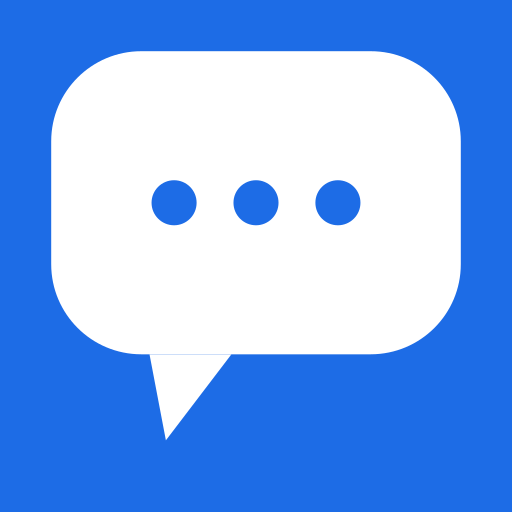
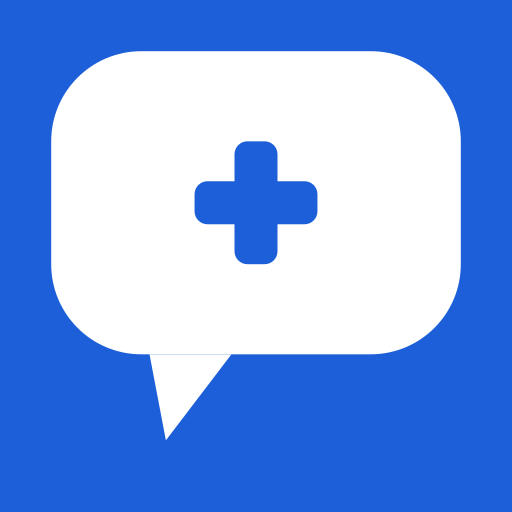
refactor(legal): 의무가 둘이라 푸터를 갈랐다 — 방침 링크는 홈, 사업자 정보는 /more
- 약관·방침 한 줄: **홈에만** 남긴다. 개인정보보호법 제30조 2항의 "쉽게 확인할 수
  있도록"은 첫 화면 링크를 뜻한다. 메뉴 안으로만 옮기면 두 번 들어가게 된다.
  12.5px → 14px (원칙 2 하한. 읽히지 않으면 "쉽게 확인"의 취지가 안 산다)
- 사업자 정보 4줄: /more 로. 전자상거래법의 초기화면 표시 의무는 파는 곳에
  걸리고 우리는 팔지 않는다. 둘을 묶어 함께 옮겼으면 한쪽이 깨졌다
- /chat 등 다른 화면에서는 그 줄도 뺐다. 머리띠의 "더보기"가 길을 준다
- 머리띠에 더보기 → /more. **서랍을 만들지 않는다** — 오버레이·포커스 트랩·스크롤
  잠금은 한 번 읽는 내용에 큰 장치다. /more 를 열면 약관·방침이 맨 위 두 줄이라
  "메뉴를 열면 한 번에 보인다"가 지켜진다. /more 자신에는 자기 링크를 안 둔다
  하단 메뉴를 지운 결정과 어긋나지 않는다: 그때 지운 것은 404 로 가는 문 네 개와
  화면 아래 60px 이었고, 이것은 머리띠 안 44px 하나다(간격은 8px 유지)
- 아이콘을 결정대로 바꿨다: 말풍선 + 십자, #1C5FD8. ER·응급 표기 없음(응급의료
  기관이 아니고 119 대신 눌리면 안 된다), 빨간 십자 없음(적십자 표장은 법으로
  보호된다). 근거는 docs/LAUNCH-scope.md

띄워서 세 화면을 읽었다. 323 + 131 통과.

Changed region(s): [[0.2812, 0.25, 0.7188, 0.5312]]

diff --git a/src/components/legal/LegalFooter.tsx b/src/components/legal/LegalFooter.tsx
@@ -1,22 +1,25 @@
 import Link from "next/link";
-import { COMPANY } from "@/features/legal/company";
 import { LEGAL_DOC_PATH } from "@/features/legal/documents";
 import { areLegalDocsReadable, isPolicyInForce } from "@/features/legal/version";
 
 /**
- * 보호자 화면 맨 아래.
+ * 약관·방침 링크 한 줄. **홈에만 붙인다.**
  *
- * 두 묶음이고 켜지는 조건이 다르다.
+ * ── 왜 홈에는 남기는가 ──────────────────────────────────────
+ * 개인정보보호법 제30조 2항은 처리방침을 "정보주체가 **쉽게 확인할 수 있도록**"
+ * 공개하라고 한다. 실무 기준은 **첫 화면에 링크가 보이는 것**이다. 더보기 메뉴
+ * 안으로만 옮기면 메뉴를 열고 또 들어가게 되어 그 기준에서 벗어난다.
  *
- *   ① 사업자 정보 — **항상 보인다.** 표기 의무는 약관이 있는지와 무관하다.
- *      값은 features/legal/company 한 곳에서 읽는다. 문서 본문도 같은 값을 토큰으로
- *      읽으므로 주소나 보호책임자가 바뀌면 한 곳만 고치면 된다.
+ * 그래서 홈에는 남기고, 다른 화면에서는 뺐다 — 머리띠의 "더보기"가 길을 준다.
  *
- *   ② 약관·방침 **링크** — 본문이 들어오면 보인다. 시행 전에도 보여 준다(사전 고지).
+ * ── 왜 14px 인가 ────────────────────────────────────────────
+ * 12.5px 이었다. 원칙 2 의 하한 아래이고, 법이 "쉽게 확인"이라고 할 때 읽히지
+ * 않는 크기면 취지가 살지 않는다. 사업자 정보 4줄이 /more 로 빠져 자리가 생겼다.
  *
- *   ③ **동의 문구** — 시행일이 지난 뒤에만. 시행 전에 "동의하는 것으로 봅니다"를
- *      적으면 아직 효력이 없는 문서에 동의시킨 셈이 된다. 그 기간에는 쓰기도
- *      닫혀 있다(lib/demoContent.areWritesOpen).
+ * ── 세 가지 상태 ────────────────────────────────────────────
+ *   · 본문이 없으면 아무것도 그리지 않는다. 빈 링크를 만들지 않는다.
+ *   · 시행 전이면 "미리 읽을 수 있습니다 · 아직 효력이 없습니다".
+ *   · 시행 뒤에만 "동의하는 것으로 봅니다" — 효력 없는 문서에 동의시키지 않는다.
  *
  * 서버 컴포넌트다. 파일을 읽으므로 클라이언트에서 부르지 않는다.
  */
@@ -24,10 +27,11 @@ export function LegalFooter() {
   const ready = areLegalDocsReadable();
   const inForce = isPolicyInForce();
 
+  if (!ready) return null;
+
   return (
     <footer className="px-5 pb-5 pt-2">
-      {ready && (
-        <p className="text-[12.5px] leading-relaxed text-ink-faint">
+      <p className="text-[14px] leading-relaxed text-ink-faint">
           {inForce ? "글을 남기면 " : "시행 전입니다. "}
           <Link href={LEGAL_DOC_PATH.terms} className="font-semibold text-ink-muted underline">
             이용약관
@@ -39,29 +43,7 @@ export function LegalFooter() {
           {inForce
             ? "에 동의하는 것으로 봅니다. 로그인 없이 이용하며 이름·연락처는 저장하지 않습니다."
             : " 을 미리 읽을 수 있습니다. 아직 효력이 없습니다."}
-        </p>
-      )}
-
-      {/*
-        사업자 정보. 줄을 나눠 적는다 — 한 줄로 이으면 좁은 화면에서 끊어 읽기 어렵다.
-        전화번호를 적지 않는다. 운영 문의는 이메일로 받는다(응급은 119 다).
-
-        dl + sr-only 라벨로 짜다가 되돌렸다. 라벨을 숨긴 채 값 앞에 또 적으니
-        화면에는 한 번, 스크린리더에는 두 번 읽혔다. 띄워서 읽고 찾았다.
-      */}
-      <address className={`not-italic text-[12px] leading-relaxed text-ink-faint ${ready ? "mt-3" : ""}`}>
-        <span className="font-semibold text-ink-muted">{COMPANY.name}</span>
-        {` 대표 ${COMPANY.ceo}`}
-        <br />
-        {`사업자등록번호 ${COMPANY.registrationNumber}`}
-        <br />
-        {COMPANY.address}
-        <br />
-        {`개인정보 보호책임자 ${COMPANY.privacyOfficer} · `}
-        <a href={`mailto:${COMPANY.email}`} className="underline">
-          {COMPANY.email}
-        </a>
-      </address>
+      </p>
     </footer>
   );
 }

diff --git a/src/components/layout/AppHeader.tsx b/src/components/layout/AppHeader.tsx
@@ -3,7 +3,16 @@ import { EmergencyCallout } from "@/components/common/EmergencyCallout";
 import { PartnerCta } from "@/components/common/PartnerCta";
 import { showPartnerEntry } from "@/lib/demoContent";
 
-export function AppHeader({ title, backHref }: { title?: string; backHref?: string }) {
+export function AppHeader({
+  title,
+  backHref,
+  /** 더보기 진입점을 그릴 것인가. /more 자신에게는 자기 링크를 두지 않는다. */
+  showMore = true,
+}: {
+  title?: string;
+  backHref?: string;
+  showMore?: boolean;
+}) {
   return (
     <header className="sticky top-0 z-40 bg-canvas/85 backdrop-blur-md">
       <div className="mx-auto flex h-14 max-w-app items-center justify-between gap-3 px-4">
@@ -29,10 +38,28 @@ export function AppHeader({ title, backHref }: { title?: string; backHref?: stri
           )}
         </div>
         {/*
-          오른쪽 묶음: 참여 CTA → 119. 119 가 항상 가장 바깥(엄지에 가까운 쪽)이다.
-          1차에는 참여 병원이 없어 CTA 를 내린다 — 아무도 들어갈 수 없는 문이다.
+          오른쪽 묶음: 더보기 → 참여 CTA → 119. 119 가 항상 가장 바깥(엄지에 가까운
+          쪽)이다. 1차에는 참여 병원이 없어 CTA 를 내린다 — 아무도 들어갈 수 없는 문이다.
+
+          ── 더보기는 **서랍이 아니다** ───────────────────────
+          /more 로 보낸다. 서랍(오버레이·포커스 트랩·스크롤 잠금·ESC)은 한 번 읽는
+          내용에 붙이기에는 큰 장치다(원칙 10). 화면이 이미 있고 약관·방침이 그
+          화면 맨 위 두 줄이라, 열면 바로 보인다.
+
+          하단 고정 메뉴를 지운 결정과 어긋나지 않는다. 그때 지운 것은 **아무 데도
+          가지 않는 문 네 개**와 화면 아래 60px 이었다. 이것은 머리띠 안의 44px
+          하나이고 본문을 깎지 않는다.
         */}
         <div className="flex shrink-0 items-center gap-2">
+          {showMore && (
+          <Link
+            href="/more"
+            aria-label="더보기 — 약관·개인정보 처리방침·사업자 정보"
+            className="flex h-11 min-w-[44px] items-center justify-center rounded-full px-2 text-[14px] font-semibold text-ink-muted active:bg-fill"
+          >
+            더보기
+          </Link>
+          )}
           {showPartnerEntry && <PartnerCta />}
           <EmergencyCallout />
         </div>

diff --git a/src/components/legal/CompanyInfo.tsx b/src/components/legal/CompanyInfo.tsx
@@ -1,0 +1,47 @@
+import { COMPANY } from "@/features/legal/company";
+
+/**
+ * 사업자 정보. **더보기(/more) 안에만 둔다.**
+ *
+ * 전에는 모든 보호자 화면 맨 아래에 있었다. 네 줄짜리 주소·등록번호가 홈의 아래
+ * 절반을 차지했는데, 밤에 아이를 안고 들어온 사람에게 그 네 줄은 읽을 것이 아니다
+ * (원칙 4·10).
+ *
+ * ── 첫 화면에서 빼도 되는가 ─────────────────────────────────
+ * 전자상거래법의 초기화면 표시 의무는 **재화·용역을 파는 곳**에 걸린다. CareTime 은
+ * 팔지 않는다. 그래서 사업자 정보는 찾을 수 있는 곳에 있으면 된다.
+ *
+ * 반대로 **개인정보 처리방침 링크는 첫 화면에 남긴다** — 개인정보보호법 제30조 2항의
+ * "쉽게 확인할 수 있도록"이 거기에 걸린다(components/legal/LegalFooter).
+ * 두 의무를 같은 것으로 묶어 함께 옮기면 한쪽이 깨진다.
+ *
+ * 값은 features/legal/company 한 곳에서 읽는다. 약관·방침 본문도 같은 값을 토큰
+ * (`{{상호}}` 등)으로 읽으므로 주소나 보호책임자가 바뀌면 한 곳만 고치면 된다.
+ */
+export function CompanyInfo() {
+  return (
+    <section className="ct-card p-5">
+      <h2 className="ct-section-title">사업자 정보</h2>
+      {/*
+        줄을 나눠 적는다 — 한 줄로 이으면 좁은 화면에서 끊어 읽기 어렵다.
+        전화번호를 적지 않는다. 운영 문의는 이메일로 받는다(응급은 119 다).
+
+        dl + sr-only 라벨로 짜다가 되돌렸다. 라벨을 숨긴 채 값 앞에 또 적으니
+        화면에는 한 번, 스크린리더에는 두 번 읽혔다. 띄워서 읽고 찾았다.
+      */}
+      <address className="mt-2 not-italic text-[14px] leading-relaxed text-ink-muted">
+        <span className="font-semibold text-ink">{COMPANY.name}</span>
+        {` 대표 ${COMPANY.ceo}`}
+        <br />
+        {`사업자등록번호 ${COMPANY.registrationNumber}`}
+        <br />
+        {COMPANY.address}
+        <br />
+        {`개인정보 보호책임자 ${COMPANY.privacyOfficer} · `}
+        <a href={`mailto:${COMPANY.email}`} className="underline">
+          {COMPANY.email}
+        </a>
+      </address>
+    </section>
+  );
+}

diff --git a/src/app/(consumer)/layout.tsx b/src/app/(consumer)/layout.tsx
@@ -1,4 +1,3 @@
-import { LegalFooter } from "@/components/legal/LegalFooter";
 import { SearchSessionProvider } from "@/features/search-session/SearchSessionProvider";
 import { DiscoveryProvider } from "@/features/discovery/DiscoveryProvider";
 
@@ -14,9 +13,15 @@ import { DiscoveryProvider } from "@/features/discovery/DiscoveryProvider";
  * 이동 경로는 화면 안에 있다: 홈의 주 버튼 → 현장톡, 현장톡 아래 '진료정보 찾기'
  * → 홈, 헤더의 뒤로 버튼, 푸터의 약관·방침 링크. /more 라우트는 남겨 둔다.
  *
- * 사업자 정보와 약관·방침 링크는 여기 한 곳에 둔다. 화면마다 붙이면 어느 화면에는
- * 없게 된다 — 글을 쓸 수 있는 화면이 셋이고 앞으로 늘어난다. 사업자 정보는 항상
- * 보이고, 약관·방침 링크는 문서가 준비된 뒤에 보인다(LegalFooter).
+ * ── 푸터를 여기서 뺐다 (2026-10-06) ────────────────────────
+ * 전에는 모든 보호자 화면 아래에 사업자 정보 4줄 + 약관·방침 줄이 붙었다. 둘을
+ * 갈랐다.
+ *   · 사업자 정보 → /more 로 옮겼다(components/legal/CompanyInfo). 전자상거래법의
+ *     초기화면 표시 의무는 파는 곳에 걸리고, 우리는 팔지 않는다.
+ *   · 약관·방침 한 줄 → **홈에만** 둔다(LegalFooter). 개인정보보호법 제30조 2항의
+ *     "쉽게 확인할 수 있도록"은 첫 화면 링크를 뜻한다. 메뉴 안으로만 옮기면 두 번
+ *     들어가게 된다.
+ * 다른 화면에서는 머리띠의 "더보기"가 길을 준다.
  */
 export default function ConsumerLayout({ children }: { children: React.ReactNode }) {
   return (
@@ -24,7 +29,6 @@ export default function ConsumerLayout({ children }: { children: React.ReactNode
       <DiscoveryProvider>
         <div className="mx-auto min-h-dvh max-w-app pb-[calc(16px+env(safe-area-inset-bottom))]">
           {children}
-          <LegalFooter />
         </div>
       </DiscoveryProvider>
     </SearchSessionProvider>

diff --git a/src/app/(consumer)/more/page.tsx b/src/app/(consumer)/more/page.tsx
@@ -1,6 +1,7 @@
 import Link from "next/link";
 import { AppHeader } from "@/components/layout/AppHeader";
 import { InstallHint } from "@/components/common/InstallHint";
+import { CompanyInfo } from "@/components/legal/CompanyInfo";
 import { LEGAL_DOC_PATH, loadLegalDocument } from "@/features/legal/documents";
 import { showPartnerEntry } from "@/lib/demoContent";
 
@@ -33,7 +34,7 @@ export default function MorePage() {
 
   return (
     <>
-      <AppHeader title="더보기" />
+      <AppHeader title="더보기" showMore={false} />
       <main className="space-y-3 px-4 pb-6 pt-3">
         <ul className="ct-card divide-y divide-fill overflow-hidden">
           {legal.map((item) =>
@@ -82,6 +83,9 @@ export default function MorePage() {
           </p>
         </section>
         )}
+
+        {/* 사업자 정보. 첫 화면에서 내려온 자리다(components/legal/CompanyInfo). */}
+        <CompanyInfo />
 
         <Link href="/" className="ct-secondary w-full">
           진료정보 찾기로 돌아가기

diff --git a/src/app/(consumer)/page.tsx b/src/app/(consumer)/page.tsx
@@ -4,6 +4,7 @@ import { StageNotice } from "@/components/common/StageNotice";
 import { DiscoveryForm } from "@/components/home/DiscoveryForm";
 import { MyRegionGate } from "@/components/home/MyRegionGate";
 import { InstallHint } from "@/components/common/InstallHint";
+import { LegalFooter } from "@/components/legal/LegalFooter";
 import { showCareConditionForm, showHospitalDirectory } from "@/lib/demoContent";
 
 /*
@@ -89,6 +90,13 @@ export default function HomePage() {
         )}
 
       </main>
+
+      {/*
+        약관·방침 한 줄. **홈에만 있다.** 개인정보보호법 제30조 2항의 "쉽게 확인할
+        수 있도록"이 첫 화면 링크를 뜻하기 때문이다. 사업자 정보 4줄은 /more 로
+        옮겼다 — 그쪽은 파는 곳에 걸리는 의무라 우리에게 해당하지 않는다.
+      */}
+      <LegalFooter />
     </>
   );
 }

diff --git a/docs/screens/install-abuse-2026-10-06.md b/docs/screens/install-abuse-2026-10-06.md
@@ -106,3 +106,52 @@
 내 글에 답이 달려도 알림이 없다. 다시 들어와서 보는 것이 유일한 길이고, 그래서
 홈 화면 바로가기를 만들었다. 2차에 로그인과 함께 연다 — 근거는
 `docs/LAUNCH-scope.md`.
+
+
+---
+
+# 푸터를 갈랐다 · 머리띠에 더보기 — 2026-10-06
+
+## 어디에 무엇이 남았는가
+
+| 화면 | 머리띠 | 맨 아래 |
+|---|---|---|
+| `/` 홈 | CareTime · **더보기** · 119 | 약관·방침 **한 줄**(14px) |
+| `/chat` | 현장톡 · **더보기** · 119 | 없다 |
+| `/more` | 더보기(자기 링크 없음) · 119 | 약관·방침 두 줄 → **사업자 정보** |
+
+## 왜 갈랐는가 — 의무가 둘이고 서로 다르다
+
+- **개인정보 처리방침 링크**는 홈에 남는다. 개인정보보호법 제30조 2항이
+  "정보주체가 **쉽게 확인할 수 있도록**" 공개하라고 하고, 실무 기준은 첫 화면
+  링크다. 메뉴 안으로만 옮기면 메뉴를 열고 또 들어가게 된다.
+- **사업자 정보**는 `/more` 로 내려갔다. 전자상거래법의 초기화면 표시 의무는
+  재화·용역을 **파는 곳**에 걸리고 CareTime 은 팔지 않는다.
+
+둘을 같은 것으로 묶어 함께 옮겼으면 한쪽이 깨졌다.
+
+## 글자 크기 12.5px → 14px
+
+원칙 2 의 하한 아래였다. 법이 "쉽게 확인"이라고 할 때 읽히지 않는 크기면 취지가
+살지 않는다. 사업자 정보 4줄이 빠져 자리가 생겼으므로 부담이 없다.
+
+## 더보기는 서랍이 아니다
+
+`/more` 로 보낸다. 서랍(오버레이·포커스 트랩·스크롤 잠금·ESC)은 한 번 읽는 내용에
+붙이기에 큰 장치다(원칙 10). 그리고 열면 **약관·방침이 그 화면 맨 위 두 줄**이라
+"메뉴를 열면 한 번에 보인다"가 그대로 지켜진다.
+
+하단 고정 메뉴를 지운 결정과 어긋나지 않는다. 그때 지운 것은 아무 데도 가지 않는
+문 네 개(찾기 → 404)와 화면 아래 60px 이었다. 이것은 머리띠 안 44px 하나이고
+본문을 깎지 않는다. `/more` 자신에게는 자기 링크를 두지 않는다.
+
+## 아이콘 — 말풍선 + 십자, `#1C5FD8`
+
+파란 바탕 · 흰 말풍선 · 그 안의 파란 십자. 넣지 않은 것과 근거는
+`docs/LAUNCH-scope.md` 에 적었다 — **ER·응급 표기 없음**(응급의료기관이 아니고
+119 대신 눌리면 안 된다), **빨간 십자 없음**(적십자 표장은 법으로 보호된다),
+글자 없음(작은 크기에서 안 읽히고 깎일 때 먼저 잘린다).
+
+사용자가 보낼 최종 파일 5개가 오면 `public/` 의 것을 그것으로 바꾼다.
+그 전까지는 `scripts/gen-icons.mjs` 가 만든 것이 들어가 있고, 색·모양은 결정과
+같게 맞춰 두었다.

diff --git a/docs/LAUNCH-scope.md b/docs/LAUNCH-scope.md
@@ -101,6 +101,33 @@
 그 자리다 — 사람이 쓴 문장이고, 지금 하나 · 평소 하나로 두 종류를 보여 준다.
 챗봇을 다시 검토한다면 먼저 답해야 하는 것은 "무엇을 **말하지 않는지**"다.
 
+## 아이콘에 넣지 않는 것 — 말풍선 + 십자, `#1C5FD8`
+
+홈 화면 바로가기 아이콘이다(`public/icon-*.png`, `scripts/gen-icons.mjs`).
+말풍선은 "묻고 알려주는 곳"이고, 십자는 의료다. 그 둘로 끝낸다.
+
+### "ER"·"응급" 표기를 넣지 않는다
+
+**우리는 응급의료기관이 아니다.** 아이콘에 응급을 적으면 급할 때 119 대신 이
+아이콘을 누르게 만들 수 있고, 그건 이 서비스가 낼 수 있는 가장 큰 사고다.
+같은 이유로 머리띠의 119 버튼을 가장 바깥(엄지에 가까운 쪽)에 둔다.
+
+현장톡은 **보호자가 쓴 말**을 모으는 곳이고 의료기관의 응급 수용 여부를 알려 주지
+않는다. 아이콘이 그보다 많은 것을 약속하면 안 된다.
+
+### 빨간 십자를 쓰지 않는다
+
+**적십자 표장은 법으로 보호된다.** 대한적십자사 조직법과 제네바협약이 흰 바탕의
+붉은 십자를 보호 표장으로 정하고 있고, 허가 없이 쓰면 위법이다. 의료를 뜻하려고
+가장 먼저 떠오르는 모양이지만 쓸 수 없다.
+
+그래서 **파란 바탕 · 흰 말풍선 · 그 안의 파란 십자**다. 붉은색을 쓰지 않는다.
+
+### 글자를 넣지 않는다
+
+작은 크기에서 읽히지 않고, 안드로이드가 아이콘을 제조사 모양대로 깎을 때 가장
+먼저 잘리는 것이 글자다. 그래서 여유를 둔 `maskable` 판을 따로 만든다.
+
 ## 2차 자리 — 소식 듣기 (내 글에 답이 달리면 알림)
 
 **1차에는 알림이 없다. 알고 간다.**

diff --git a/docs/CHANGELOG-p0.md b/docs/CHANGELOG-p0.md
@@ -65,3 +65,4 @@
 - 홈 여섯 곳: 베타 문구, 덜 고른 지역을 저장하지 않음, 라벨·안내 제거, 119 수화기
 - 현장톡 성격을 평소 경험까지 넓혔다(문구·예문). 챗봇·샘플 글은 넣지 않는다(근거 기록)
 - 홈 화면 바로가기(manifest·아이콘·한 줄 안내·더보기). 욕설 422 + 거절 사유 표시
+- 푸터를 갈랐다: 약관·방침 한 줄은 홈에 14px, 사업자 정보는 /more. 머리띠에 더보기
